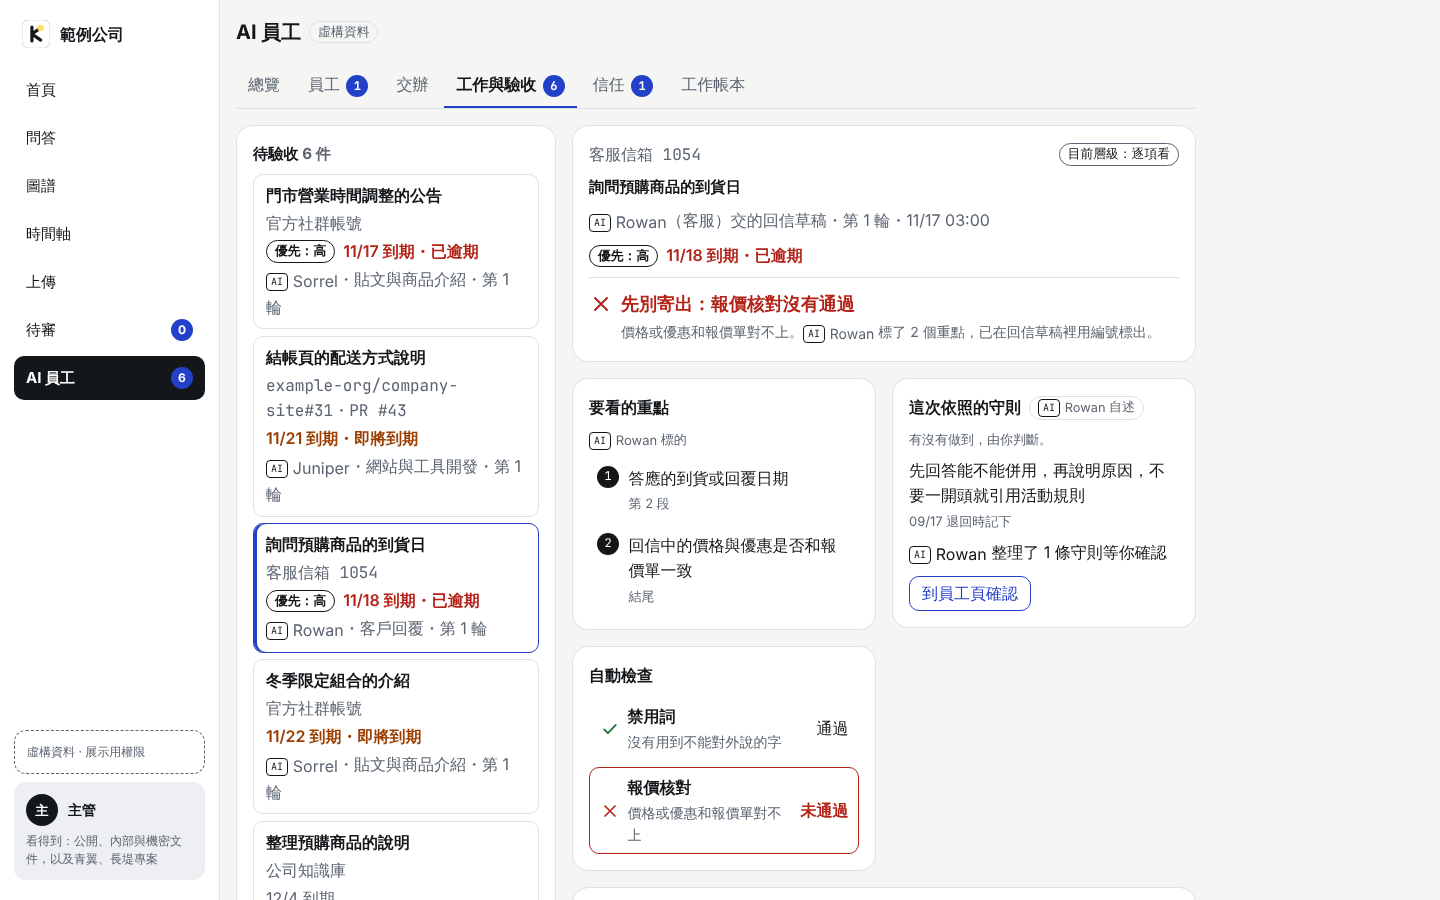
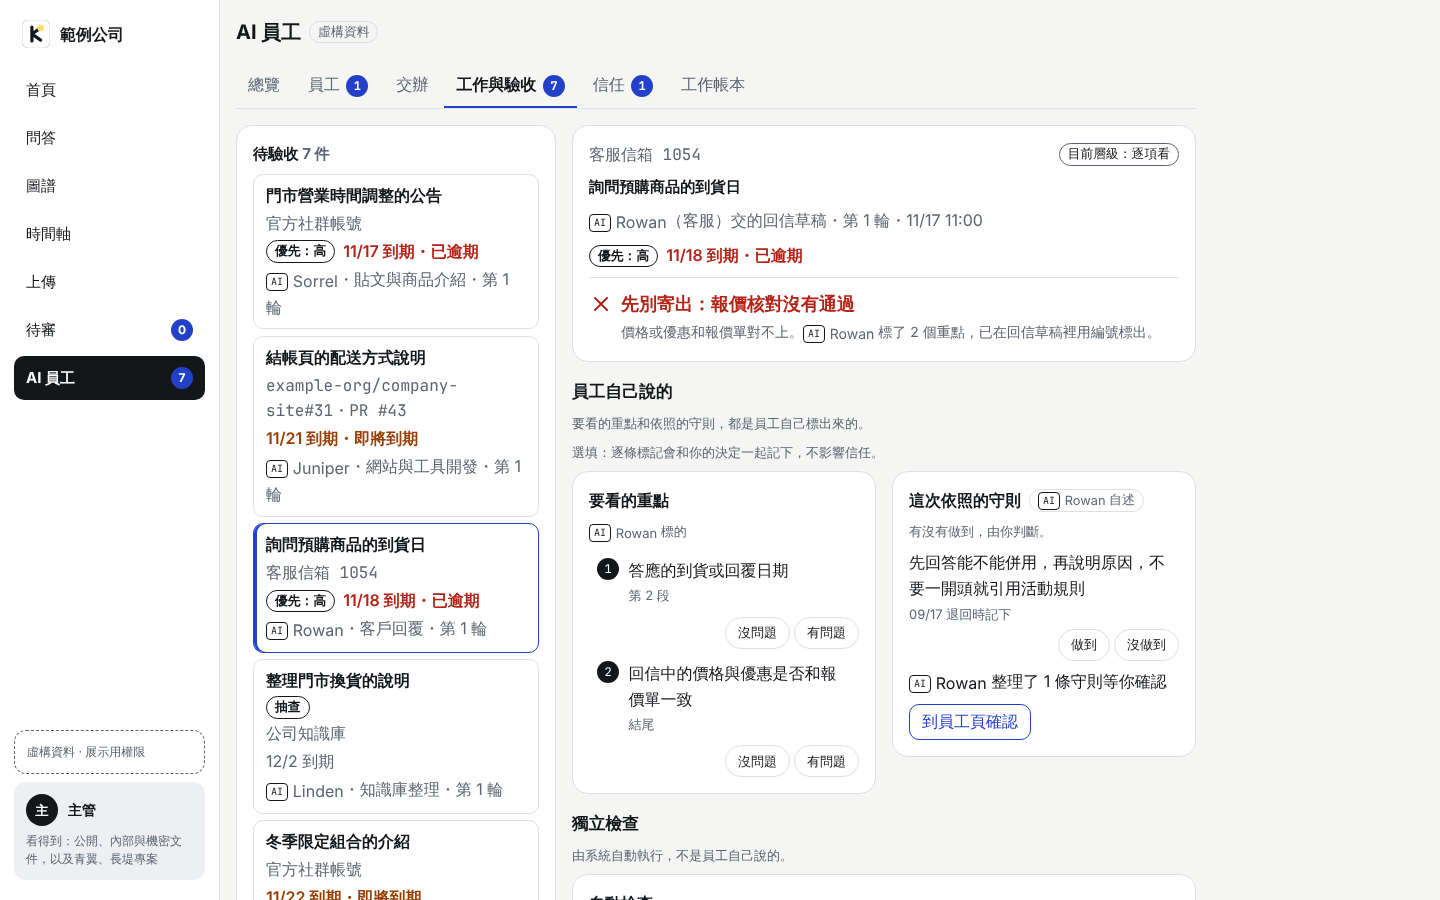
docs: 第 5 階段收尾：導覽 8 步、README、研究主張與專家檢視（#171）
- 導覽在「信任」與「回流知識庫」之間加「抽查」（k17）與「事後更正」（k01）兩步，驗收面板一步改說明分區
- README「AI 員工」與「設計與決策過程」補上抽查、事後更正與放手之後的退路；新增 spot-check、correction 截圖並重新產生既有截圖
- 研究主張更新主題 1 的狀態、信任規則的取捨與「接下來」
- 新增 docs/crew/research/expert-review.md（專家檢視與可近用性檢查）

Refs #171

Claude-Session: https://claude.ai/code/session_01J8NtUGLHdKEdacTtCctBoY

diff --git a/e2e/crew-readme-shots.spec.ts b/e2e/crew-readme-shots.spec.ts
@@ -1,12 +1,12 @@
 // AI 員工的 README 截圖（knowledge-crew #106）：桌機 1440×900 的首頁今天的工作、總覽（#134）、驗收面板（Rowan 的回信）、信任時間軸、
-// 員工頁 Rowan 的卡（守則：一條等確認、一條生效）與守則文件的原文面板（這條守則的來歷）（#151），與手機 390×844 的驗收面板（固定的決定列）與總覽（#134），寫到 docs/crew/images/<名稱>.png。
+// 員工頁 Rowan 的卡（守則：一條等確認、一條生效）與守則文件的原文面板（這條守則的來歷）（#151）、k17 的「這次抽查」與 k01 的事後更正（#171），與手機 390×844 的驗收面板（固定的決定列）與總覽（#134），寫到 docs/crew/images/<名稱>.png。
 // 不是測試，預設不執行：KC_README_SHOTS=1 時 playwright.config.ts 只執行這個檔案（重新產生的方式見 docs/testing.md「AI 員工的 README 截圖」）。
 // 參考情境（client/）的虛構資料、預設語言、主管身分、Light 模式、減少動態效果；/api/ask 是 openApp() 的假回應（不呼叫模型）；
 // openApp() 以邀請碼登入後才截圖，截圖中沒有登入頁與邀請碼。
 import { expect, test, type Page } from "@playwright/test";
 import { expandTimelineEntry, gotoView, openApp, s, switchIdentity } from "./support/app";
 import { access, language, readClientJson } from "./support/client";
-import { ct, employeeName, gotoCrewSection, hasCrewDemo, homeToday, openCrew, reviewPanel, trustRow } from "./support/crew";
+import { crewContent, ct, employeeName, gotoCrewSection, hasCrewDemo, homeToday, openCrew, reviewPanel, trustRow } from "./support/crew";
 
 const DESKTOP = { width: 1440, height: 900 };
 const MOBILE = { width: 390, height: 844 };
@@ -14,9 +14,9 @@ const shotPath = (name: string) => `docs/crew/images/${name}.png`;
 const manager = access.roles.find((r) => r.canReview && r.canUpload);
 
 // Rowan 待驗收的回信（虛構資料的 s14）
-const rowanReply = hasCrewDemo
-  ? readClientJson<{ assignments: { id: string; title: Record<string, string> }[] }>("crew/demo.json").assignments.find((a) => a.id === "s14")!.title[language]
-  : "";
+const demoTitle = (id: string) =>
+  hasCrewDemo ? readClientJson<{ assignments: { id: string; title: Record<string, string> }[] }>("crew/demo.json").assignments.find((a) => a.id === id)!.title[language] : "";
+const rowanReply = demoTitle("s14");
 
 test.use({ colorScheme: "light", reducedMotion: "reduce" });
 
@@ -28,6 +28,15 @@ test.beforeEach(() => {
 async function start(page: Page): Promise<void> {
   await openApp(page);
   await switchIdentity(page, manager!.id);
+}
+
+// 「工作與驗收」以標題在清單選取虛構資料的一件交辦（待驗收或最近驗收過的）
+async function openWork(page: Page, id: string): Promise<void> {
+  const title = demoTitle(id);
+  await openCrew(page);
+  await gotoCrewSection(page, ct.common.sectionWorks);
+  await page.getByRole("navigation", { name: ct.review.listLabel }).getByRole("button").filter({ hasText: title }).click();
+  await expect(reviewPanel(page, title)).toBeVisible();
 }
 
 async function openRowanReply(page: Page): Promise<void> {
@@ -59,6 +68,25 @@ test.describe("桌機", () => {
     await gotoCrewSection(page, ct.common.sectionTrust);
     await expect(trustRow(page, "rowan", "support")).toBeVisible();
     await page.screenshot({ path: shotPath("trust") });
+  });
+
+  test("抽查（k17 的「這次抽查」卡）、事後更正（k01 的「通過後發現有錯」）（#171）", async ({ page }) => {
+    await start(page);
+    await openWork(page, "k17");
+    await expect(page.locator(".crew-review__spot")).toBeVisible();
+    await page.evaluate(() => window.scrollTo(0, 0));
+    await page.screenshot({ path: shotPath("spot-check") });
+
+    // k01 較早驗收、不在最近驗收過的清單：從工作帳本的「事後更正」點進去
+    await gotoCrewSection(page, ct.common.sectionLedger);
+    await crewContent(page).getByRole("combobox", { name: new RegExp(`^${ct.ledger.filterEvent}`) }).selectOption({ label: ct.ledger.eventReturned });
+    const row = page.getByRole("table", { name: ct.ledger.listLabel }).locator("tbody").getByRole("row").filter({ hasText: ct.ledger.kindCorrected });
+    await row.getByRole("button", { name: demoTitle("k01"), exact: true }).click();
+    await expect(reviewPanel(page, demoTitle("k01"))).toBeVisible();
+    const correction = page.locator(".crew-review__correction");
+    await expect(correction).toBeVisible();
+    await correction.scrollIntoViewIfNeeded();
+    await page.screenshot({ path: shotPath("correction") });
   });
 
   test("員工頁 Rowan 的守則、守則文件的原文面板（#151）", async ({ page }) => {

diff --git a/e2e/support/crew.ts b/e2e/support/crew.ts
@@ -144,7 +144,7 @@ export async function assignSimulateReturn(
 // 首頁的「今天的工作」（#96）
 export const homeToday = (page: Page) => page.getByRole("region", { name: ct.home.title, exact: true });
 
-// ---- 第一次來的導覽（#122）：首頁的入口小卡與導覽對話框；walkTour() 走完 6 步，每一步確認切到的畫面與標出的區塊 ----
+// ---- 第一次來的導覽（#122）：首頁的入口小卡與導覽對話框；walkTour() 走完 8 步，每一步確認切到的畫面與標出的區塊 ----
 export const tourCard = (page: Page) => page.getByRole("region", { name: ct.tour.cardTitle, exact: true });
 export const tourDialog = (page: Page) => page.getByRole("dialog").filter({ has: page.locator(".crew-tour__title") });
 export const tourReplay = (page: Page) => page.getByRole("button", { name: ct.tour.replay, exact: true });
@@ -156,6 +156,9 @@ const TOUR = [
   { title: () => ct.tour.returnTitle, section: () => ct.common.sectionWorks, target: ".crew-review__decision" },
   { title: () => ct.tour.guidelinesTitle, section: () => ct.common.sectionEmployees, target: ".crew-employees__guidelines[data-pending]", owner: "rowan" },
   { title: () => ct.tour.trustTitle, section: () => ct.common.sectionTrust, target: ".crew-trust__row" },
+  // 抽查（k17 的「這次抽查」卡）與事後更正（k01 的更正紀錄）（#171）
+  { title: () => ct.tour.spotTitle, section: () => ct.common.sectionWorks, target: ".crew-review__spot" },
+  { title: () => ct.tour.correctionTitle, section: () => ct.common.sectionWorks, target: ".crew-review__correction" },
   { title: () => ct.tour.flowbackTitle, section: () => ct.common.sectionWorks, target: ".crew-review__knowledge" },
 ] as const;
 
@@ -200,7 +203,7 @@ async function expectTargetMostlyVisible(page: Page, target: string): Promise<vo
     .toBe(true);
 }
 
-// 從首頁的入口開始走完 6 步；keyboard 時以 Enter 按「下一步」（開始時焦點在「下一步」）。結束後回到首頁不必要：停在最後一步的畫面
+// 從首頁的入口開始走完 8 步；keyboard 時以 Enter 按「下一步」（開始時焦點在「下一步」）。結束後回到首頁不必要：停在最後一步的畫面
 export async function walkTour(page: Page, opts: { keyboard?: boolean } = {}): Promise<void> {
   await (await tourStart(page)).click();
   for (const [i, step] of TOUR.entries()) {

diff --git a/app/src/crew/ui/tour-steps.test.ts b/app/src/crew/ui/tour-steps.test.ts
@@ -27,9 +27,26 @@ const lang = clientConfig.client.defaultLanguage;
 const DB_TIMEOUT = 20_000;
 
 describe("TOUR_STEPS", () => {
-  it("6 步：今天的工作 → 驗收面板 → 退回原因 → 守則 → 信任 → 回流知識庫", () => {
-    expect(TOUR_STEPS.map((s) => s.id)).toEqual(["today", "review", "return", "guidelines", "trust", "flowback"]);
-    expect(TOUR_STEPS.map((s) => s.go.kind)).toEqual(["home", "crew", "crew", "crew", "crew", "flowback"]);
+  it("8 步：今天的工作 → 驗收面板 → 退回原因 → 守則 → 信任 → 抽查 → 事後更正 → 回流知識庫（#171）", () => {
+    expect(TOUR_STEPS.map((s) => s.id)).toEqual(["today", "review", "return", "guidelines", "trust", "spot", "correction", "flowback"]);
+    expect(TOUR_STEPS.map((s) => s.go.kind)).toEqual(["home", "crew", "crew", "crew", "crew", "crew", "crew", "flowback"]);
+  });
+
+  it("抽查與事後更正切到「工作與驗收」並選取 demo 的 k17、k01，退路是驗收面板（#171）", () => {
+    const spot = TOUR_STEPS.find((s) => s.id === "spot")!;
+    expect(spot.go).toEqual({ kind: "crew", target: { section: "works", assignmentId: "k17" } });
+    expect(spot.targets).toEqual([".crew-review__spot", ".crew-review__panel"]);
+    const correction = TOUR_STEPS.find((s) => s.id === "correction")!;
+    expect(correction.go).toEqual({ kind: "crew", target: { section: "works", assignmentId: "k01" } });
+    expect(correction.targets).toEqual([".crew-review__correction", ".crew-review__panel"]);
+  });
+
+  it("入口小卡寫的步數與步驟數相同（#171）", () => {
+    expect(TOUR_STEPS).toHaveLength(8);
+    const stepCount: Record<string, RegExp> = { "zh-TW": /(^|\D)8 步/, en: /^Eight steps/ };
+    for (const language of clientConfig.client.languages) {
+      if (stepCount[language]) expect(crewStrings("tour", language).cardBody, language).toMatch(stepCount[language]);
+    }
   });
 
   it("守則一步切到「員工」，先標出有等確認守則的區塊（#151）", () => {

diff --git a/e2e/crew-tour.spec.ts b/e2e/crew-tour.spec.ts
@@ -1,4 +1,4 @@
-// 第一次來的導覽（#122）：首頁的入口小卡（可以關掉、可以重新看）、6 步都切到對應的畫面並標出區塊、鍵盤與 Esc、桌機 1280 與手機 390。
+// 第一次來的導覽（#122）：首頁的入口小卡（可以關掉、可以重新看）、8 步都切到對應的畫面並標出區塊、鍵盤與 Esc、桌機 1280 與手機 390。
 // 不自動彈出：進入首頁時只有入口小卡，沒有對話框（線上 demo 的「直接體驗」在 crew-only.spec.ts）。
 // 只在有 crew/demo.json 的客戶執行；/api/ask 一律是 page.route 的假回應（openApp）。
 import { expect, test, type Page } from "@playwright/test";
@@ -26,7 +26,7 @@ for (const viewport of [
   test.describe(viewport.name, () => {
     test.use({ viewport: viewport.size });
 
-    test("首頁有入口小卡、不自動彈出；走完 6 步後小卡換成「重新看導覽」並記住看過", async ({ page }) => {
+    test("首頁有入口小卡、不自動彈出；走完 8 步後小卡換成「重新看導覽」並記住看過", async ({ page }) => {
       await openHome(page);
       await expect(tourCard(page)).toBeVisible();
       await expect(tourDialog(page)).toHaveCount(0);

diff --git a/app/src/crew/ui/tour-steps.ts b/app/src/crew/ui/tour-steps.ts
@@ -33,6 +33,15 @@ export const TOUR_STEPS: readonly TourStep[] = [
     targets: [".crew-employees__guidelines[data-pending]", ".crew-employees__guidelines"],
   },
   { id: "trust", title: "trustTitle", body: "trustBody", go: { kind: "crew", target: { section: "trust" } }, targets: [".crew-trust__row", ".crew-trust"] },
+  // 抽查（#166）：demo 的 k17 是 Linden 看重點期間的第 5 件；事後更正（#164）：demo 的 k01 已通過後更正（#171）
+  { id: "spot", title: "spotTitle", body: "spotBody", go: { kind: "crew", target: { section: "works", assignmentId: "k17" } }, targets: [".crew-review__spot", ".crew-review__panel"] },
+  {
+    id: "correction",
+    title: "correctionTitle",
+    body: "correctionBody",
+    go: { kind: "crew", target: { section: "works", assignmentId: "k01" } },
+    targets: [".crew-review__correction", ".crew-review__panel"],
+  },
   { id: "flowback", title: "flowbackTitle", body: "flowbackBody", go: { kind: "flowback" }, targets: [".crew-review__knowledge", ".crew-review__panel"] },
 ];
 

diff --git a/e2e/crew-only.spec.ts b/e2e/crew-only.spec.ts
@@ -118,7 +118,7 @@ test.describe("桌機", () => {
     await expect(page.locator(".home__top h2")).toBeFocused();
   });
 
-  test("第一次來的導覽：6 步走完，沒有 /api/* 請求（afterEach）", async ({ page }) => {
+  test("第一次來的導覽：8 步走完，沒有 /api/* 請求（afterEach）", async ({ page }) => {
     await enter(page);
     await walkTour(page);
   });

diff --git a/docs/crew/research/expert-review.md b/docs/crew/research/expert-review.md
@@ -1,0 +1,42 @@
+# 專家檢視與可近用性檢查
+
+## 專家檢視（2026-11-25）
+
+**方法**：以 Amershi 等人的 18 條人機互動準則（G1–G18，[Guidelines for Human-AI Interaction](https://www.microsoft.com/en-us/research/blog/guidelines-for-human-ai-interaction-design/)）逐條檢視 main `b95cefa` 只展示 AI 員工的 build，桌機 1280 與手機 390 兩種寬度，走過登入、首頁、總覽、員工、交辦、驗收（逐項看與看重點）、信任、工作帳本與退回。這是決策中心的單人啟發式檢視，不能取代使用者測試；結論用來排序下一步該補哪裡。
+
+### 做得好的地方
+
+- **G1–G2 讓人知道系統能做什麼、做得多好**：導覽、首頁的今天的工作；信任報表直接列出驗收次數與結果。
+- **G3–G4 時機與脈絡**：首頁依急迫程度排序、顯示期限；驗收面板帶出重點與這次依照的守則。
+- **G7、G11 容易叫用、能解釋**：一句話交辦；「為什麼是看重點」、建議的依據、知識與守則的來歷都看得到。
+- **G12–G13 記得過去、從使用者學習**：工作帳本與信任時間軸；守則把一次判斷變成之後的規則。
+- **G14、G16 謹慎更新、說清後果**：放手要人同意、做錯了自動收回；退回原因標明會不會影響信任。
+
+### 缺口與處理
+
+| 優先 | 準則 | 缺口 | 處理 |
+| --- | --- | --- | --- |
+| 高 | G9 | 已通過的工作之後發現有錯，沒有地方記，信任也不會反映 | 第 5 階段：事後更正（#164） |
+| 高 | G10、G14 | 看重點之後沒有抽查，容易養成過度信任 | 第 5 階段：抽查（#166） |
+| 高 | G15 | 只能對整份工作回饋，不能針對單一重點或守則 | 第 5 階段：逐項回饋與「沒被標成重點」（#168） |
+| 中 | G17 | 信任的門檻看不到、調不了；沒有「全部暫停看重點」 | 待決定 |
+| 中 | G8 | 待決定的建議與守則只能當下決定，不能稍後再說 | 待決定 |
+| 中 | G1 | 登入頁沒說明 AI 員工做什麼、不做什麼 | 待決定 |
+| 中 | G10 | 除了標出的重點，員工不會說自己哪裡沒把握 | 待決定 |
+| 低 | — | 總覽的守則數、時間以觀看者時區顯示 | 已修正（#153） |
+| 低 | — | 交辦按鈕未填時用停用樣式、信任表的連結底線不一致 | 留給視覺統一調整 |
+| 低 | G18 | 變更通知只在首頁 | 留給視覺統一調整 |
+
+### 還沒觸及
+
+第 8 階段「判斷的回饋」：驗收的人的判斷帶來了什麼，目前在畫面上看不到。
+
+## 可近用性檢查（2026-11-26）
+
+**方法**：以 Playwright 走過 AI 員工的各畫面，檢查鍵盤焦點、標題層級、元件名稱與對比；之後加上 axe 自動檢查（WCAG 2.2 AA 的規則），在 CI 中每次執行（[docs/testing.md](../../testing.md)「crew-a11y.spec.ts」）。
+
+**修正**（#153）：切換畫面後焦點移到主標題；輸入框邊框的對比；只有圖示的按鈕與區塊補上名稱；標題層級不跳級；時間固定以設定的時區（`client/crew/settings.json`）顯示。
+
+**結果**：axe 在桌機 1280 與手機 390 掃描的所有畫面，違規數為 0。
+
+**限制**：自動檢查只涵蓋可以程式判斷的規則；沒有以螢幕閱讀器實測，也沒有身障使用者參與測試。

diff --git a/docs/crew/research/README.md b/docs/crew/research/README.md
@@ -25,7 +25,7 @@
 
 | 主題 | 研究怎麼說 | 還空著的地方 | 本專案的回應 | 狀態 |
 | --- | --- | --- | --- | --- |
-| 1. 人的決策 | 驗收 AI 的交件時，人最常犯的錯是太快同意；加上解釋通常救不回來；有效的是讓檢查比重做便宜 | 很少有工作工具在日常中記錄「人的判斷準不準」 | 員工標出要看的重點、自動檢查；看重點期間的抽查；通過後才發現有錯的標記 | 前兩項已做到；抽查與事後標記在第 5 階段 |
+| 1. 人的決策 | 驗收 AI 的交件時，人最常犯的錯是太快同意；加上解釋通常救不回來；有效的是讓檢查比重做便宜 | 很少有工作工具在日常中記錄「人的判斷準不準」 | 員工標出要看的重點、自動檢查；看重點期間的抽查；通過後才發現有錯的標記 | 已做到：員工標的重點、自動檢查、看重點期間的抽查、事後更正；驗收面板分開員工自述與獨立檢查 |
 | 2. 人與 AI 的協作互動 | 重點從「自動化多少」轉向「怎麼分工、在哪裡讓人參與」；委派要可以設定 | 人的退回怎麼讓 AI 下次做得不同，多半看不見 | 每類工作各自的審查程度；退回原因三選一；守則 | 已做到 |
 | 3. 人的回饋感 | 效率提升會付出內在動機與擁有感的代價；保留決定權不等於保留擁有感 | 幾乎沒有產品為「管 AI 的那個人」設計成就感 | 讓人看見自己的判斷帶來了什麼；不做績效排名 | 第 8 階段 |
 | 4. 人與 AI 共寫的知識庫 | 只標「AI 產生」會讓人一律打折，而且不幫助判斷對錯 | 知識工具關心「答案有來源」，較少處理「來源本身是 AI 寫的」 | 以「經過什麼把關」呈現知識，不以人或 AI 分類 | 已做到：回流、來源與完整的來歷（經過什麼把關） |
@@ -39,6 +39,8 @@
 - **平台只建議，放手要人同意，可以隨時收回**：研究顯示放手在現實中是慢慢漂移的，沒有人做過決定。取捨：多一個步驟。
 - **一次「做錯了」就改回逐項看**：信任掉得快、回得慢，出過錯的工作寧可多看。取捨：可能放大過度反應，這是待研究的問題。
 - **退回原因三選一，只有「做錯了」影響信任**：把錯誤和偏好分開，偏好不算錯。取捨：靠人選對原因。
+- **看重點期間每 5 件抽 1 件逐項看**：避免放手之後只看員工自己標的重點，養成過度信任。取捨：5 是展示用的參數，沒有實證依據；依交件順序推算而不是隨機，可預期但也可能被摸清。
+- **通過後才發現的錯也算「做錯了」**：信任要反映實際的結果，不只是驗收當下的判斷。取捨：更正不能撤回，靠人在記下前確認。
 
 ## 限制
 
@@ -50,4 +52,4 @@
 
 ## 接下來
 
-第 4 階段完成後，以人機互動準則（Amershi 等人的 18 條）對 demo 做一次專家檢視，結果放在本目錄。
+第 5 階段完成前，以人機互動準則（Amershi 等人的 18 條）對 demo 做了一次專家檢視，並以 axe 做可近用性檢查，結果見 [專家檢視與可近用性檢查](expert-review.md)。高優先的缺口已在第 5 階段補上；中優先的項目待決定。接下來先統一調整視覺，再進行第 7 階段（監督的證據）。

diff --git a/docs/testing.md b/docs/testing.md
@@ -274,7 +274,7 @@ VITE_CREW_ONLY=1 npm run test:e2e
 
 knowledge-crew 的 `README.md`「AI 員工」一節的截圖（`docs/crew/images/<名稱>.png`）由 `e2e/crew-readme-shots.spec.ts` 產生（#106）。它不是測試，預設不執行：`KC_README_SHOTS=1` 時 `playwright.config.ts` 只執行這個檔案，其他時候排除它。CI 不產生這組截圖。
 
-- 內容：參考情境（`client/`）的虛構資料、預設語言、主管身分。桌機 1440×900 是首頁今天的工作（`home-today`）、AI 員工頁的總覽（`overview`，#134）、「工作與驗收」中 Rowan 的回信（`review`）、信任時間軸（`trust`）、員工頁 Rowan 的卡（`guidelines`，一條守則等確認、一條生效）與守則文件的原文面板（`provenance`，這條守則的來歷）（#151）；手機 390×844 是同一件的驗收面板與固定在底部的決定列（`mobile-review`）與總覽（`mobile-overview`，整頁，#134）。
+- 內容：參考情境（`client/`）的虛構資料、預設語言、主管身分。桌機 1440×900 是首頁今天的工作（`home-today`）、AI 員工頁的總覽（`overview`，#134）、「工作與驗收」中 Rowan 的回信（`review`）、信任時間軸（`trust`）、員工頁 Rowan 的卡（`guidelines`，一條守則等確認、一條生效）與守則文件的原文面板（`provenance`，這條守則的來歷）（#151）、k17 的驗收面板與「這次抽查」卡（`spot-check`）與 k01 的驗收面板與「通過後發現有錯」的紀錄（`correction`）（#171）；手機 390×844 是同一件的驗收面板與固定在底部的決定列（`mobile-review`）與總覽（`mobile-overview`，整頁，#134）。
 - 不需要 API 金鑰、不呼叫模型：`/api/ask` 是 `openApp()` 的假回應。
 - 只出現虛構資料：以邀請碼登入後才截圖，截圖中沒有登入頁與邀請碼；Light 模式（`colorScheme: "light"`）、減少動態效果。
 
